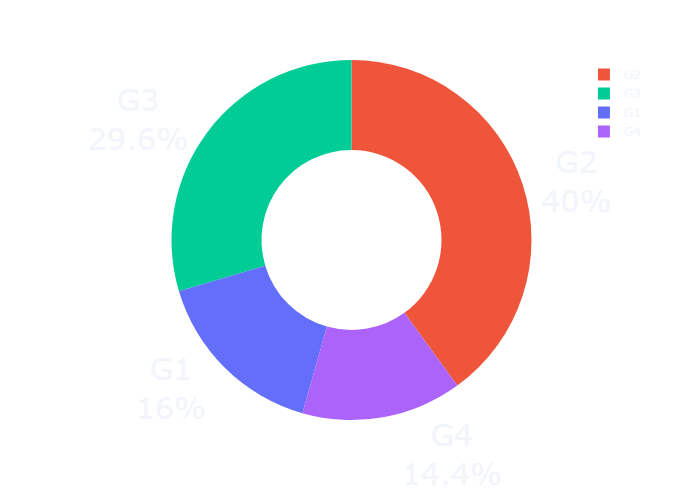
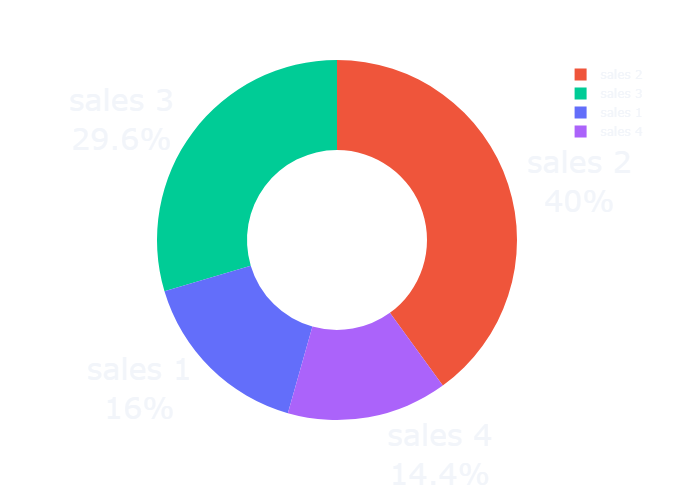
created donut graph method

diff --git a/main/dashboard/views.py b/main/dashboard/views.py
@@ -3,6 +3,8 @@ from django.shortcuts import render,redirect,HttpResponse
 import plotly.express as px
 import pandas as pd
 
+from .graph_utility import graph_creator
+
 
 
 # Create your views here.
@@ -49,7 +51,11 @@ def daily_tasks(request):
     return render(request,'code/daily_tasks.html',{})
 
 def profile(request):
-    #the pie figure
+    instance_of_graph_creator = graph_creator()
+    
+    
+    
+        #the pie figure
     revenue_fig = px.pie(values = [20, 50, 37, 18],template="plotly_dark",
              names = ['G1', 'G2', 'G3', 'G4'])
     #the bg color of the pie
@@ -58,20 +64,24 @@ def profile(request):
     revenue_fig.update_traces(textposition="outside",textfont_size=30,textinfo='percent+label')
     # takes the plotly figure and transforms it to image that is saved in static/dashboard/images/pie.png that is later is displayed in the html
 
-    revenue_pie_chart = revenue_fig.write_image(r"C:\Users\hayhuhin\Desktop\crm_project\main\dashboard\static\dashboard\images/pie.png")
+    revenue_pie_chart = revenue_fig.write_image(r"C:\Users\hayhuhin\Desktop\crm_project\main\dashboard\static\dashboard\images\pie.png")
 
 
     #the donut figure of the plotly express library
-    donut_figure = px.pie(values = [20, 50, 37, 18],template="plotly_dark",
-             names = ['G1', 'G2', 'G3', 'G4'],
-             color = ['G1', 'G2', 'G3', 'G4'],
-             hole = 0.5)
-    #the bg color of the pie
-    donut_figure.update_layout(paper_bgcolor='rgba(0,0,0,0)')
-    #text position and the font size udjustments
-    donut_figure.update_traces(textposition="outside",textfont_size=30,textinfo='percent+label')
-    # takes the plotly figure and transforms it to image that is saved in static/dashboard/images/donut.png that is later is displayed in the html
-    contrib_chart = donut_figure.write_image(r"C:\Users\hayhuhin\Desktop\crm_project\main\dashboard\static\dashboard\images/donut.png")
+    # donut_figure = px.pie(values = [20, 50, 37, 18],template="plotly_dark",
+    #          names = ['G1', 'G2', 'G3', 'G4'],
+    #          color = ['G1', 'G2', 'G3', 'G4'],
+    #          hole = 0.5)
+    # #the bg color of the pie
+    # donut_figure.update_layout(paper_bgcolor='rgba(0,0,0,0)')
+    # #text position and the font size udjustments
+    # donut_figure.update_traces(textposition="outside",textfont_size=30,textinfo='percent+label')
+    # # takes the plotly figure and transforms it to image that is saved in static/dashboard/images/donut.png that is later is displayed in the html
+    # contrib_chart = donut_figure.write_image(r"C:\Users\hayhuhin\Desktop\crm_project\main\dashboard\static\dashboard\images/donut.png")
+
+    donut_graph_class = graph_creator()
+    contrib_chart = donut_graph_class.donut_graph(values=[20, 50, 37, 18],names= ['sales 1', 'sales 2', 'sales 3', 'sales 4'],path=r"C:\Users\hayhuhin\Desktop\crm_project\main\dashboard\static\dashboard\images\donut.png")
+
 
 
     context = {'revenue_pie_chart':revenue_pie_chart,'contrib_chart':contrib_chart}

diff --git a/main/dashboard/graph_utility.py b/main/dashboard/graph_utility.py
@@ -7,34 +7,49 @@ import pandas as pd
 #option to display it as html or image that will be saved in the static folder
 
 class graph_creator(object):
-    def __init__(self,args,to_html=True,**kwargs):
-        self.args = args
-        self.kwargs = kwargs
-        self.to_html = to_html
+    def __init__(self):
+
+        self.template = 'plotly_dark'
 
         
 
     
-    def bar_graph(self,group:list,value:list):
+    def bar_graph(self,group:list,value:list,path=None,to_html=True):
         data_frame = pd.DataFrame(dict(group=group,value=value))
 
         graph_fig = px.bar(data_frame,x='group',y='value')
-        if self.to_html:
+        if to_html:
             graph = graph_fig.to_html()
         else:
-            graph = graph_fig.to_image()
+            graph = graph_fig.write_image(path)
+        return graph
 
-    def pie_graph(self,values:list,names:list):
+    def pie_graph(self,values:list,names:list,path=None,to_html=True):
 
-        pie_fig = px.pie(values=values,names=names)
+        pie_fig = px.pie(values=values,names=names,template=self.template)
 
-        if self.to_html:
+        if to_html:
             graph = pie_fig.to_html()
         else:
-            graph = pie_fig.to_image()
+            pie_fig.update_layout(paper_bgcolor='rgba(0,0,0,0)')
+            pie_fig.update_traces(textposition="outside",textfont_size=30,textinfo='percent+label')
+            graph = pie_fig.write_image(path)
+        return graph
 
 
-    def donut_graph(self,values:list,names:list):
-
-        # donut_fig = px.pie
-        pass
+    def donut_graph(self,values:list,names:list,path="",to_html=True):
+        donut_fig = px.pie(values = values,template=self.template,
+                names = names,
+                color = ['G1', 'G2', 'G3', 'G4'],
+                hole = 0.5)
+        #the bg color of the pie
+        donut_fig.update_layout(paper_bgcolor='rgba(0,0,0,0)')
+        #text position and the font size udjustments
+        donut_fig.update_traces(textposition="outside",textfont_size=30,textinfo='percent+label')
+        if to_html:
+            graph = donut_fig.to_html()
+        
+        else:
+            graph = donut_fig.write_image(path)
+        return graph
+    
